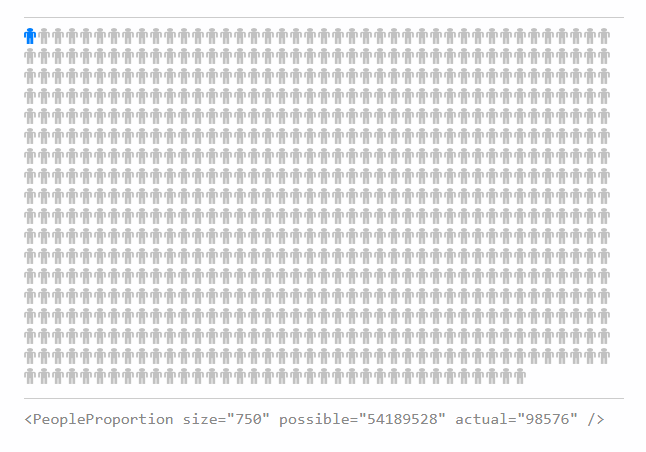
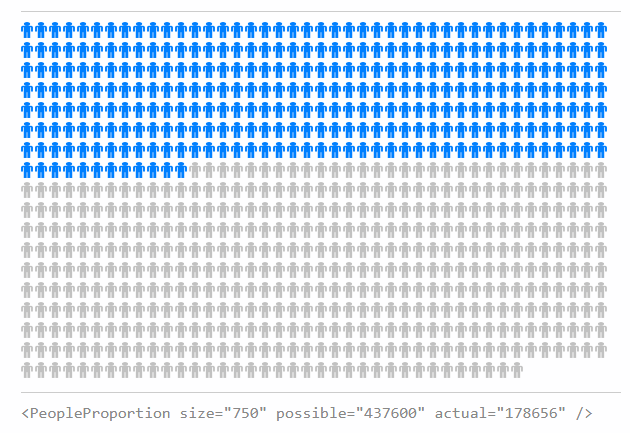
use different example

diff --git a/src/App.js b/src/App.js
@@ -22,11 +22,11 @@ class App extends Component {
           </p>
 
           <div className="component-demo">
-            <PeopleProportion size="750" possible="54189528" actual="98576" />
+            <PeopleProportion size="750" possible="437600" actual="178656" />
           </div>
 
           <div className="component-properties">
-            <tt>&lt;PeopleProportion size="750" possible="54189528" actual="98576" /&gt;</tt>
+            <tt>&lt;PeopleProportion size="750" possible="437600" actual="178656" /&gt;</tt>
           </div>
         </div>
       </div>

diff --git a/README.md b/README.md
@@ -5,7 +5,7 @@ These are my custom React components. This project was bootstrapped with [Create
 
 ## PeopleProportion
 
-Visualize a percentage of people in a group. Do you get a ton of retweets? Visualize the proportion of your total follower count that retweets you, in order to get a more accurate perspective of engagement levels.
+Visualize a percentage of people in a group. Do you get a ton of retweets or likes? Visualize the proportion of your total follower count that retweets/likes your tweets, in order to get a more accurate perspective of engagement levels.
 
 ![PeopleProportion](./example-people-proportion.png)
 
